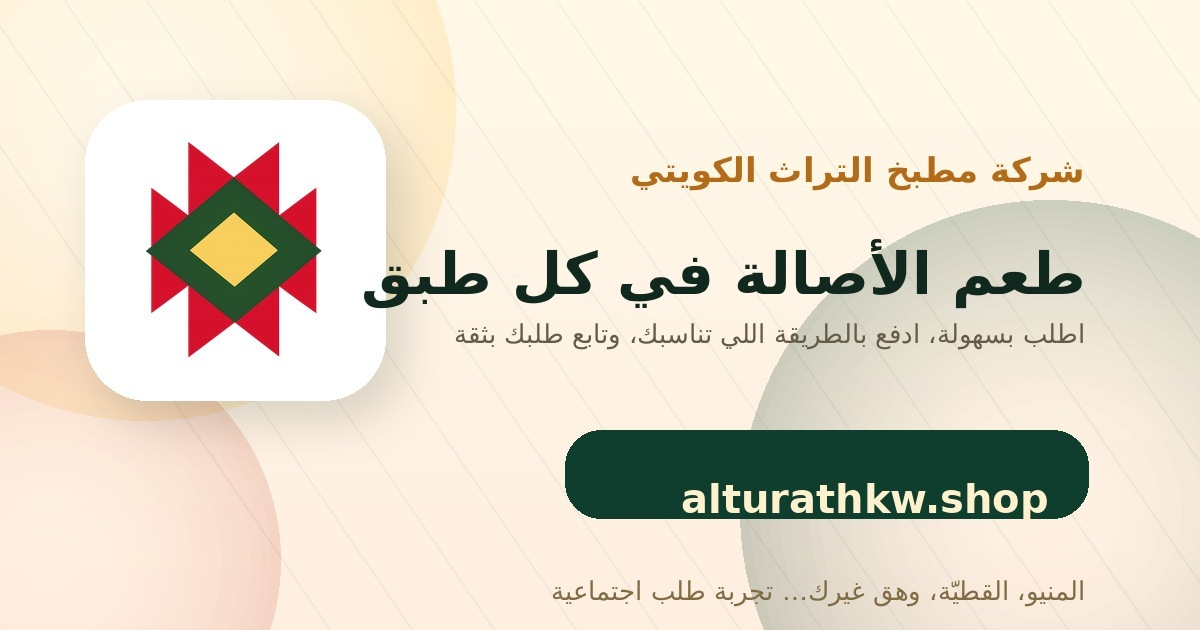
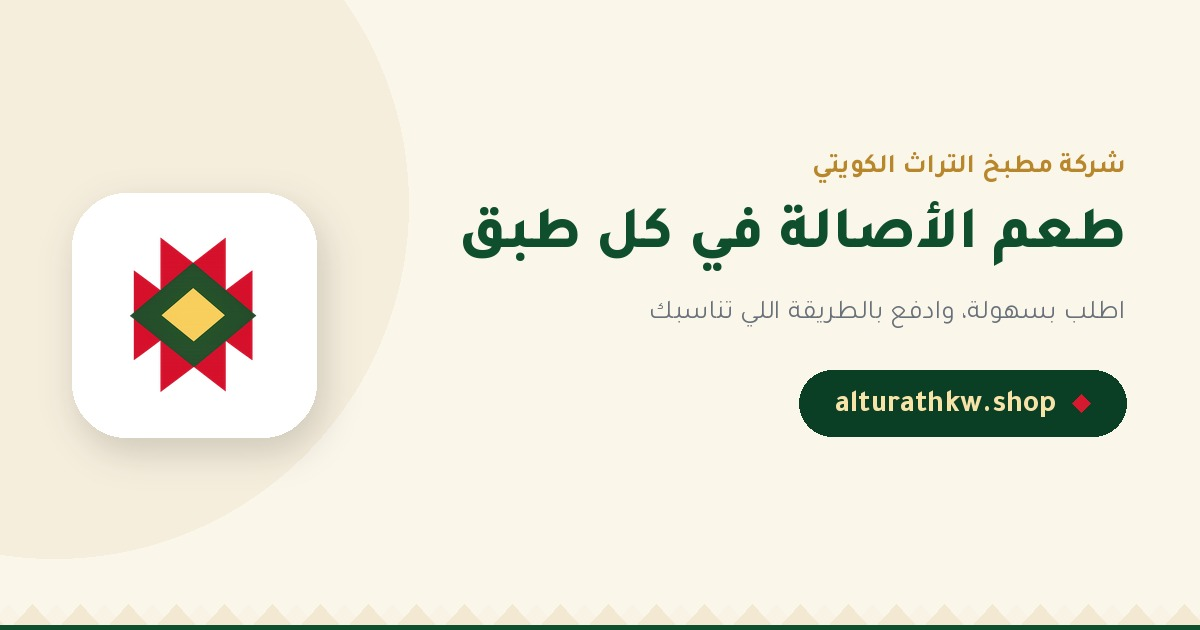
Rebuild the link-preview card, and keep it reproducible
The old card put a large translucent circle behind the headline and let the
logo tile crowd it, so the type read as muddy and cramped; the placeholder
that briefly replaced it carried no brand at all.

The new card is built on one rule: decoration lives in bands the type never
enters. A logo column on one side, a measured type stack on the other, a Sadu
motif confined to the bottom edge. The layout measures every string and
asserts the blocks clear each other before it writes the file — the first run
tripped that assertion on the headline, which is the point of having it.

Set in the site own self-hosted Tajawal, read straight from public/fonts, so
the card can never drift away from the type the site uses. scripts/generate-og-card.py
regenerates it from nothing but the repo.

Claude-Session: https://claude.ai/code/session_01PW1xfmrYNQUx1UzDDDefMz

diff --git a/scripts/generate-og-card.py b/scripts/generate-og-card.py
@@ -1,0 +1,127 @@
+"""Link-preview card for التراث.
+
+The previous card put a large translucent circle behind the headline and let the
+logo tile crowd it, so the type read as muddy and cramped. This one keeps a hard
+rule: the decoration lives in bands the text never enters, and the two halves are
+separated by measured space rather than by luck. Every string is measured and the
+layout asserts the blocks do not collide before it writes the file.
+"""
+import os
+from PIL import Image, ImageDraw, ImageFont
+
+W, H = 1200, 630
+CREAM   = (251, 246, 234)
+GREEN   = (15, 79, 45)
+GREEN_D = (11, 63, 37)
+RED     = (215, 25, 47)
+GOLD    = (184, 134, 43)
+SAND    = (243, 233, 211)
+MUTED   = (104, 112, 122)
+
+# The faces come from the repo's own self-hosted Tajawal, so the card is always
+# set in the same type as the site. Pillow cannot open woff2, so each face is
+# unpacked to a temporary ttf; the arabic and latin subsets are separate files.
+import re, tempfile, atexit
+from fontTools.ttLib import TTFont
+
+_TMP = tempfile.mkdtemp()
+atexit.register(lambda: __import__("shutil").rmtree(_TMP, ignore_errors=True))
+_CSS = open("public/fonts/fonts.css", encoding="utf-8").read()
+
+def face(weight, subset, family="Tajawal"):
+    for sub, block in re.findall(r"/\*\s*([a-z-]+)\s*\*/\s*@font-face\s*\{(.*?)\}", _CSS, re.S):
+        if sub != subset or f"font-family: '{family}'" not in block:
+            continue
+        if f"font-weight: {weight};" not in block:
+            continue
+        src = "public/fonts/" + re.search(r"url\(/fonts/([^)]+)\)", block).group(1)
+        out = os.path.join(_TMP, f"{family}-{weight}-{subset}.ttf")
+        f = TTFont(src); f.flavor = None; f.save(out)
+        return out
+    raise SystemExit(f"no {family} {weight} {subset} face in public/fonts/fonts.css")
+
+AR = None
+LA = None
+f_eyebrow = ImageFont.truetype(face(700, "arabic"), 27)
+f_head    = ImageFont.truetype(face(800, "arabic"), 60)
+f_sub     = ImageFont.truetype(face(400, "arabic"), 27)
+f_domain  = ImageFont.truetype(face(700, "latin"), 31)
+
+img = Image.new("RGB", (W, H), CREAM)
+d = ImageDraw.Draw(img)
+
+# ---- decoration: one Sadu band along the bottom edge, and a soft sand wash on
+# the logo side. Both sit outside the type column by construction.
+BAND_H = 26
+for x in range(-40, W + 40, 48):
+    d.polygon([(x, H), (x + 24, H - BAND_H), (x + 48, H)], fill=SAND)
+    d.polygon([(x + 24, H), (x + 48, H - BAND_H), (x + 72, H)], fill=(247, 240, 225))
+d.rectangle([0, H - 5, W, H], fill=GREEN)
+
+wash = Image.new("RGB", (W, H), CREAM)
+ImageDraw.Draw(wash).ellipse([-300, -150, 408, 558], fill=SAND)
+img = Image.blend(img, wash, 0.55)
+d = ImageDraw.Draw(img)
+for x in range(-40, W + 40, 48):          # redraw the band over the wash
+    d.polygon([(x, H), (x + 24, H - BAND_H), (x + 48, H)], fill=SAND)
+d.rectangle([0, H - 5, W, H], fill=GREEN)
+
+# ---- logo tile (left), vertically centred in its own column
+TILE, TX, TY = 244, 72, (H - 244) // 2
+shadow = Image.new("RGBA", (W, H), (0, 0, 0, 0))
+ImageDraw.Draw(shadow).rounded_rectangle(
+    [TX + 6, TY + 14, TX + TILE + 6, TY + TILE + 14], 54, fill=(24, 34, 20, 46))
+img = Image.alpha_composite(img.convert("RGBA"), shadow.filter(__import__("PIL.ImageFilter", fromlist=["x"]).GaussianBlur(18)))
+d = ImageDraw.Draw(img)
+d.rounded_rectangle([TX, TY, TX + TILE, TY + TILE], 54, fill=(255, 255, 255))
+
+mark = Image.open("public/logo.png").convert("RGBA")
+mh = 158
+mw = round(mark.width * mh / mark.height)
+mark = mark.resize((mw, mh), Image.LANCZOS)
+img.paste(mark, (TX + (TILE - mw) // 2, TY + (TILE - mh) // 2), mark)
+
+# ---- type column (right, RTL). Right edge fixed; every line grows leftwards.
+R = W - 74
+COL_LEFT = TX + TILE + 72          # the type may never cross this
+def rtl(text, font, y, fill):
+    w = d.textlength(text, font=font)
+    d.text((R - w, y), text, font=font, fill=fill)
+    return R - w, w
+
+# Measure the whole stack first, then centre it on the same axis as the logo
+# tile. Guessing a top margin is what left the old card visually top-heavy.
+GAP1, GAP2, GAP3 = 54, 92, 70
+# The pill holds a diamond and the domain as one group. Padding it from the
+# left alone left the pair sitting off-centre inside the box.
+DOMAIN = "alturathkw.shop"
+dw = d.textlength(DOMAIN, font=f_domain)
+DIA, DIA_GAP, PAD = 18, 16, 36
+inner = DIA + DIA_GAP + dw
+pw, ph = inner + PAD * 2, 66
+stack = GAP1 + GAP2 + GAP3 + ph + 40
+y = TY + (TILE - stack) // 2
+
+x1, w1 = rtl("شركة مطبخ التراث الكويتي", f_eyebrow, y, GOLD)
+y += GAP1
+x2, w2 = rtl("طعم الأصالة في كل طبق", f_head, y, GREEN)
+y += GAP2
+x3, w3 = rtl("اطلب بسهولة، وادفع بالطريقة اللي تناسبك", f_sub, y, MUTED)
+y += GAP3
+d.rounded_rectangle([R - pw, y, R, y + ph], ph // 2, fill=GREEN_D)
+
+# Right-to-left inside the pill: the diamond leads, the domain follows.
+gx = R - PAD                                   # right edge of the group
+cx, cy, r = gx - DIA // 2, y + ph // 2, DIA // 2
+d.polygon([(cx, cy - r), (cx + r, cy), (cx, cy + r), (cx - r, cy)], fill=RED)
+tb = d.textbbox((0, 0), DOMAIN, font=f_domain)
+d.text((gx - DIA - DIA_GAP - dw, cy - (tb[1] + tb[3]) / 2), DOMAIN,
+       font=f_domain, fill=(247, 226, 168))
+
+leftmost = min(x1, x2, x3, R - pw)
+assert leftmost > COL_LEFT, f"type column overruns the logo: {leftmost} <= {COL_LEFT}"
+assert y + ph < H - BAND_H - 24, "type column overruns the bottom band"
+print(f"clearance to logo tile: {leftmost - COL_LEFT:.0f}px, to bottom band: {H - BAND_H - (y + ph):.0f}px")
+
+img.convert("RGB").save("public/og-order-v8.jpg", quality=92, optimize=True, progressive=True)
+print("wrote public/og-order-v8.jpg")
